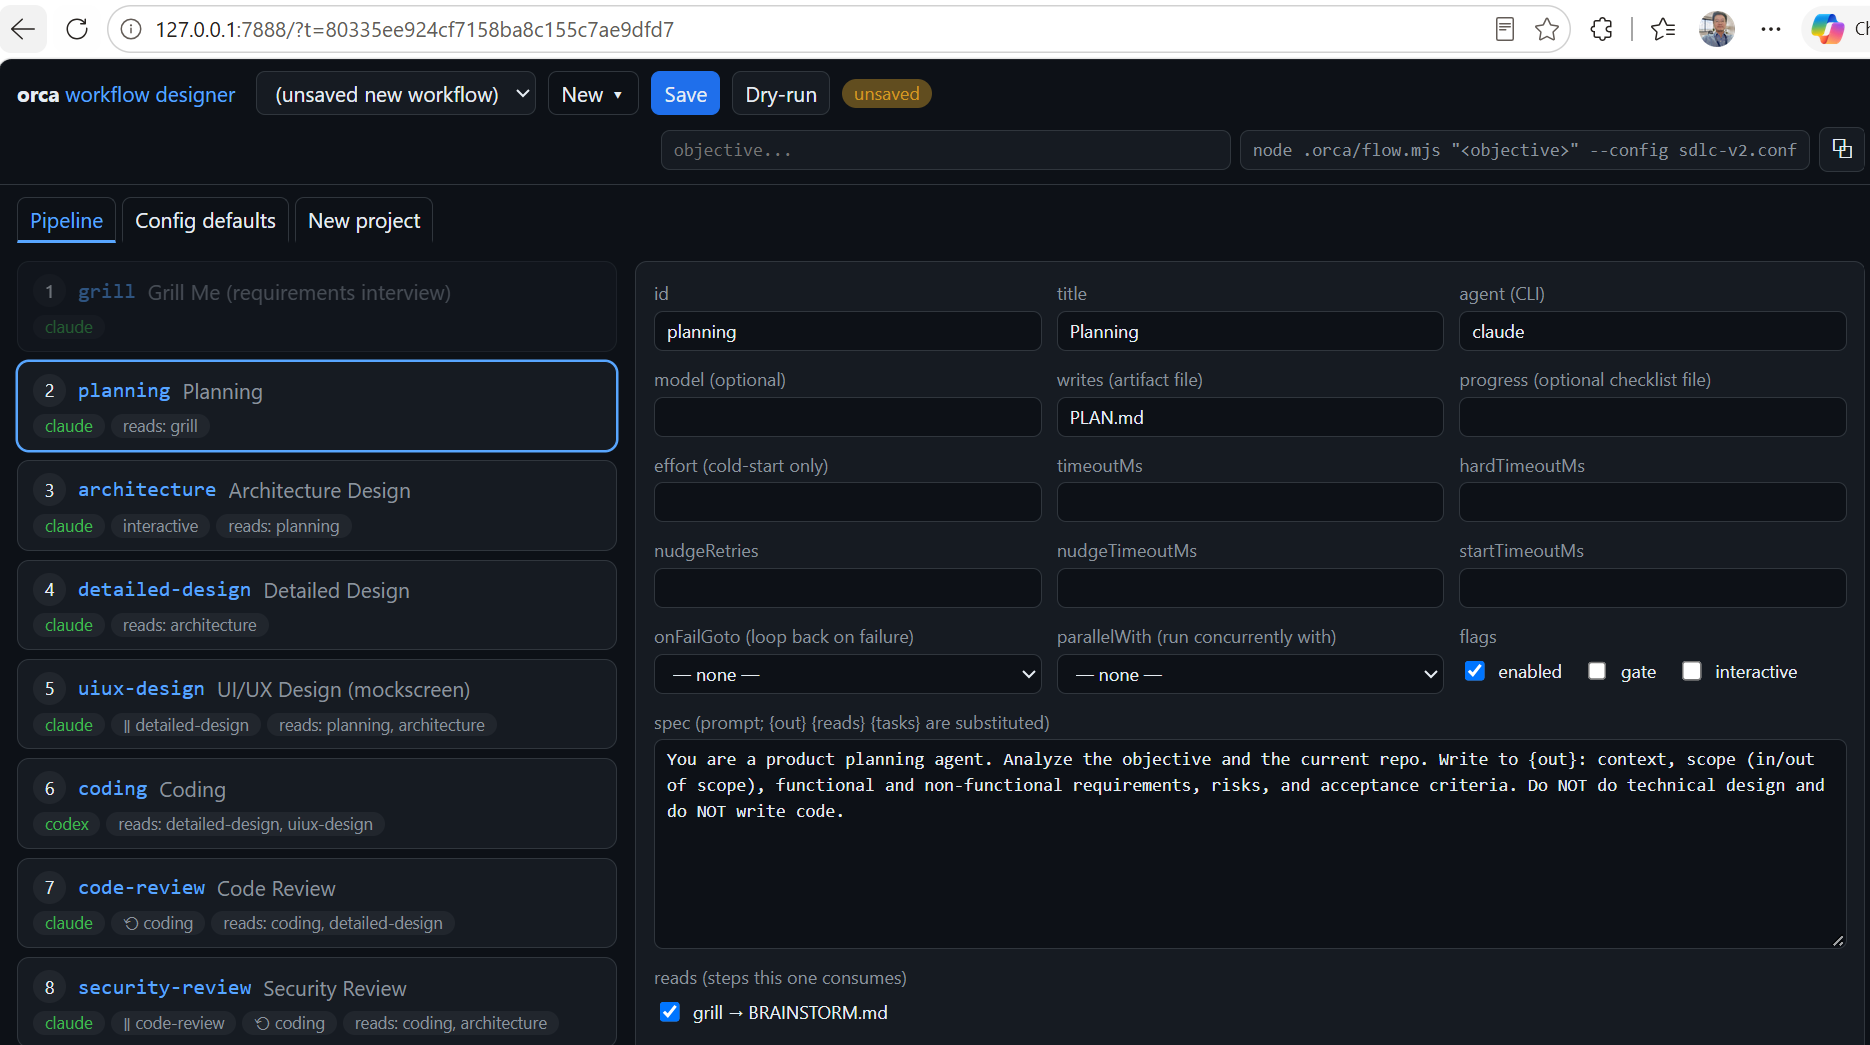
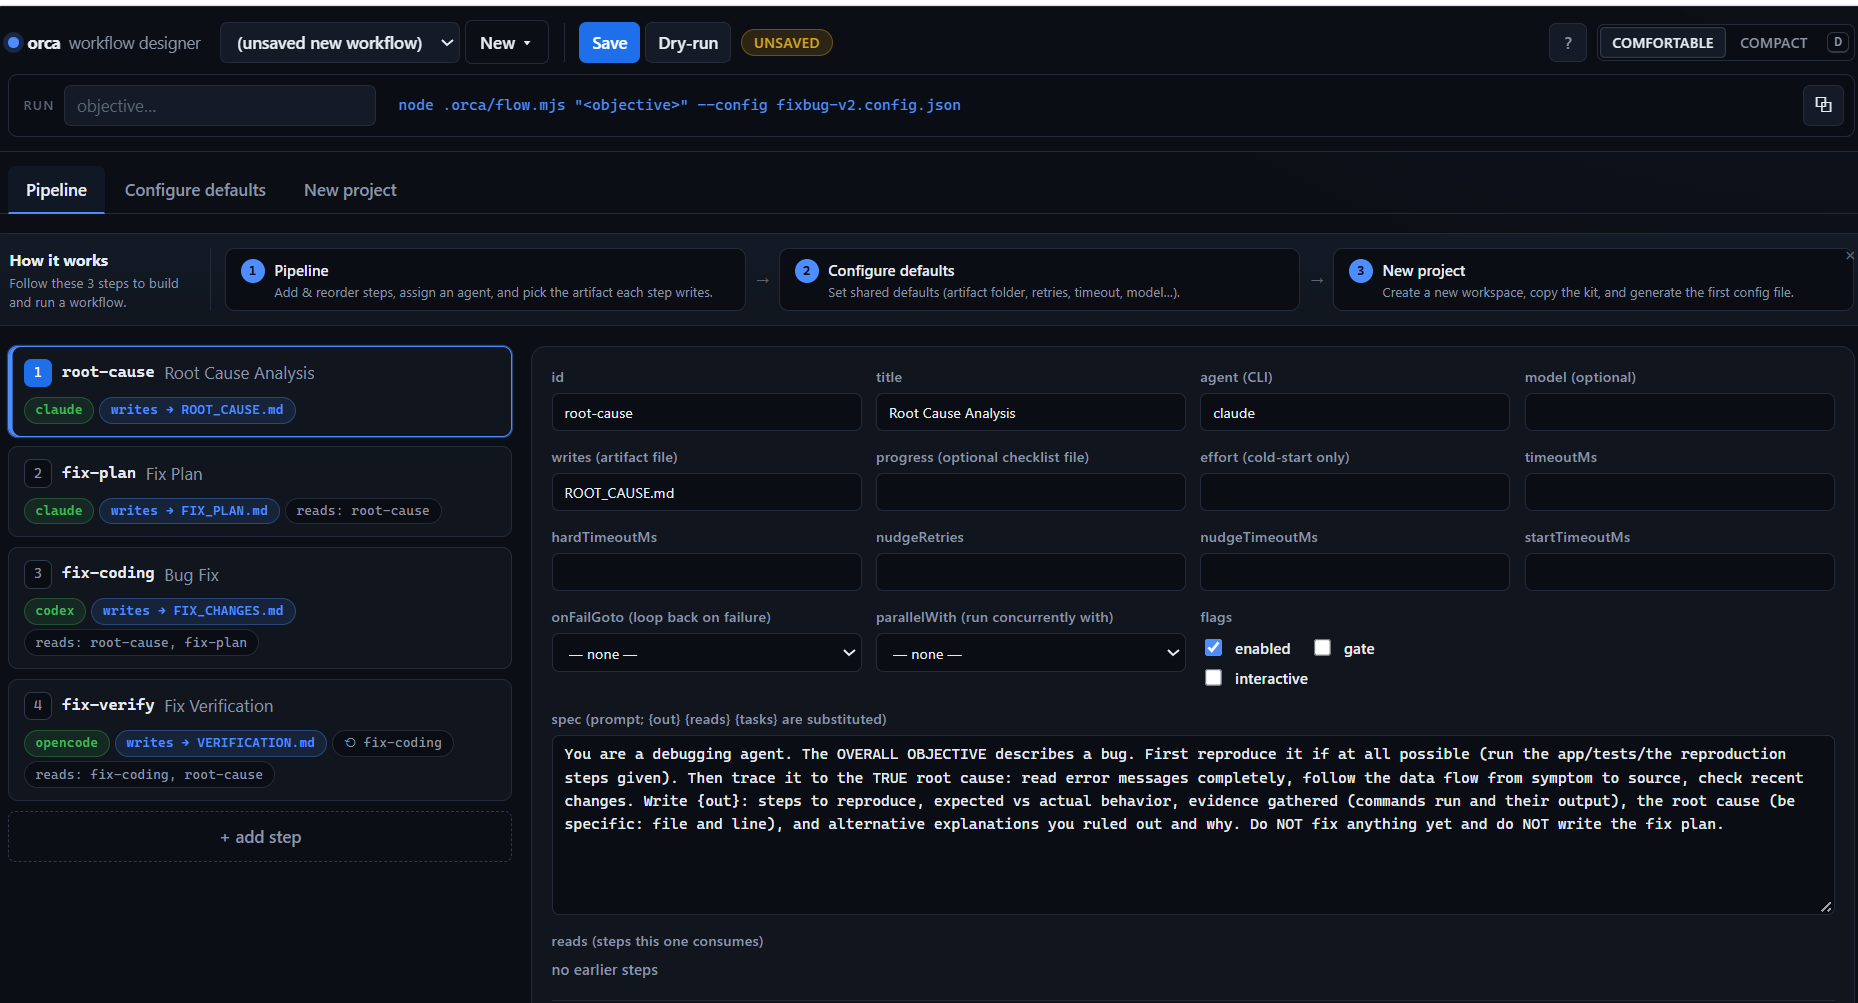
docs: designer section condensed, creation-first — refreshed Flow-design shot
The Workflow Designer section now leads with creating workflows from
scratch in the browser (blank / template / duplicate) instead of the
JSON-first framing, four bullets instead of seven, and the intro plus
the configure-your-pipeline pointer promote visual creation. Screenshot
updated to the current design.

🤖 Generated with [Claude Code](https://claude.com/claude-code)

diff --git a/README.md b/README.md
@@ -24,7 +24,7 @@ and the run-end summary land in Telegram, Slack, MS Teams or WhatsApp](img/banne
 
 **Three workflows ship ready to run** — full SDLC for a new build (`flow.config.json`), a bug-fix loop (`fixbug.config.json`), and a change-request flow for maintenance on an existing system (`cr.config.json`). [See them](#the-pipelines). **Deliver-the-code variants** of all three live in `.orca/workflow-template/` — same pipelines plus a final Rebase & Push step. They are ready-made examples, not the ceiling: any workflow you can describe as steps in JSON runs the same way. [Use cases](#use-cases).
 
-**Customize everything in `.orca/flow.config.json`** — add or reorder steps, swap any step's agent, pick models per step, set retries and timeouts, run steps in parallel: plain JSON, zero code. [See how](#2-configure-your-pipeline).
+**Customize everything in `.orca/flow.config.json`** — add or reorder steps, swap any step's agent, pick models per step, set retries and timeouts, run steps in parallel: plain JSON, zero code. [See how](#2-configure-your-pipeline). Or skip the JSON: the **[Workflow Designer](#workflow-designer--build-pipelines-in-the-browser)** builds whole workflows visually in the browser.
 
 ## What's new
 
@@ -164,7 +164,7 @@ Two knobs cover the rest:
 - **`autoRun` (default `true`) — how much it asks you.** `true`: walk away — agents never ask, they decide and record assumptions in the artifact for later audit; gates are ignored and Claude agents run with permission bypass (full tool access, one-time per-machine acceptance). `false`: agents may ask in their terminal; `"gate": true` steps pause for your approval; `"interactive": true` steps (the shipped Architecture step) interview you, one question at a time.
 - **Worktree (default: auto-detected) — where it runs.** Pin only when launching from outside the target: `--worktree name:lab2` for one run, `ORCA_FLOW_WORKTREE` for your machine. A wrong pin fails immediately with the list of valid worktrees — never mid-run.
 
-Prefer clicking over JSON? The [Workflow Designer](#workflow-designer--build-pipelines-in-the-browser) edits these files visually.
+Prefer clicking over JSON? The [Workflow Designer](#workflow-designer--build-pipelines-in-the-browser) creates and edits these files visually — new workflows included.
 
 ### 3. Change the harness
 
@@ -206,42 +206,25 @@ Manual mode (gates + interviews): set `"autoRun": false` in the config, then run
 
 ## Workflow Designer — build pipelines in the browser
 
-Hand-editing JSON is the power-user path. For everyone else (and for spinning up
-a brand-new project), the kit ships a small local UI:
+Skip the JSON entirely: **create a workflow from scratch** — blank, from any shipped template, or by duplicating the current one — and edit every existing config, all in a local web UI:
 
 ```bash
 node .orca/designer.mjs          # opens http://127.0.0.1:7887/?t=<one-time token>
 ```
 
-![The Workflow Designer in the browser: the Pipeline tab lists every step as a
-numbered card in run order — agent chips (claude, codex), reads arrows,
-‖ parallel markers, ↺ loop-back badges — and the form on the right edits the
-selected step: id, title, agent, model, writes, timeouts, onFailGoto,
-parallelWith, enabled/gate/interactive flags, the spec prompt with {out} /
-{reads} placeholders, and reads checkboxes; the header carries the objective
-field, Save / Dry-run buttons and the exact node .orca/flow.mjs run command
-for the workflow being edited](img/Flow-design.png)
+![The Workflow Designer: step cards in run order on the left — agent chips,
+reads arrows, ∥ parallel markers, ↺ loop-back badges — the selected step's
+full form on the right (agent, writes, spec, reads, timeouts…), and the exact
+run command ready to copy in the bar above](img/Flow-design.png)
 
-*The whole pipeline configurable through the web UI — the Planning step selected, its agent, artifact, reads and prompt open in the form on the right; the header previews the exact run command for the workflow being edited.*
+*Creating a workflow entirely in the browser — the Planning step selected, its agent, artifact, reads and prompt open in the form on the right.*
 
-- **Visual pipeline editor** — step cards in run order (drag to reorder),
-  a full form per step (agent, `reads`, `writes`, `spec`, timeouts, `parallelWith`,
-  `onFailGoto`…), advisory validation badges, and a config-defaults tab.
-- **Creates AND edits** — every `*.config.json` in `.orca/` and
-  `.orca/workflow-template/`; `//` comment keys in existing files survive edits.
-- **Dry-run button** — runs `flow.mjs --dry-run` against the file on disk and
-  shows the plan (or the exact validation error) in place.
-- **Run command bar** — shows the exact `node .orca/flow.mjs ...` command for
-  the workflow you're editing; click to copy. Real runs stay in your terminal.
-- **New project tab** — scaffold a fresh workspace: copies the kit into any
-  folder, drops in your first workflow config, prints the commands to run.
-- **Guided + fast** — a dismissible 3-step guide (Pipeline → Configure
-  defaults → New project) orients first-time users; keyboard shortcuts
-  `S` save · `R` dry-run · `D` density · `?` legend; a Comfortable/Compact
-  density toggle auto-tightens for 8+ step pipelines.
+- **Every step, full control** — drag cards to reorder; each form covers agent, model, `writes`, `spec`, `reads`, timeouts, `parallelWith`, `onFailGoto`, flags — with advisory validation badges mirroring `flow.mjs` checks; a defaults tab sets retries, model and timeouts pipeline-wide.
+- **Verify, then run** — Dry-run shows the plan (or the exact validation error) in place; the run-command bar builds the exact `node .orca/flow.mjs ...` command to copy — real runs stay in your terminal.
+- **Start a new project too** — the New project tab copies the kit into any folder with your first workflow config inside.
+- **Guided + fast** — dismissible 3-step guide; shortcuts `S` save · `R` dry-run · `D` density · `?` legend; Comfortable/Compact spacing auto-tightens for long pipelines.
 
-Notes: binds `127.0.0.1` only, guarded by a per-launch token; zero dependencies;
-`flow.mjs` itself never serves anything. Flags: `--port <n>`, `--no-open`.
+Notes: localhost-only, guarded by a per-launch token; zero dependencies; `flow.mjs` itself never serves anything; `//` comments survive every save. Flags: `--port <n>`, `--no-open`.
 
 ## The pipelines
 
